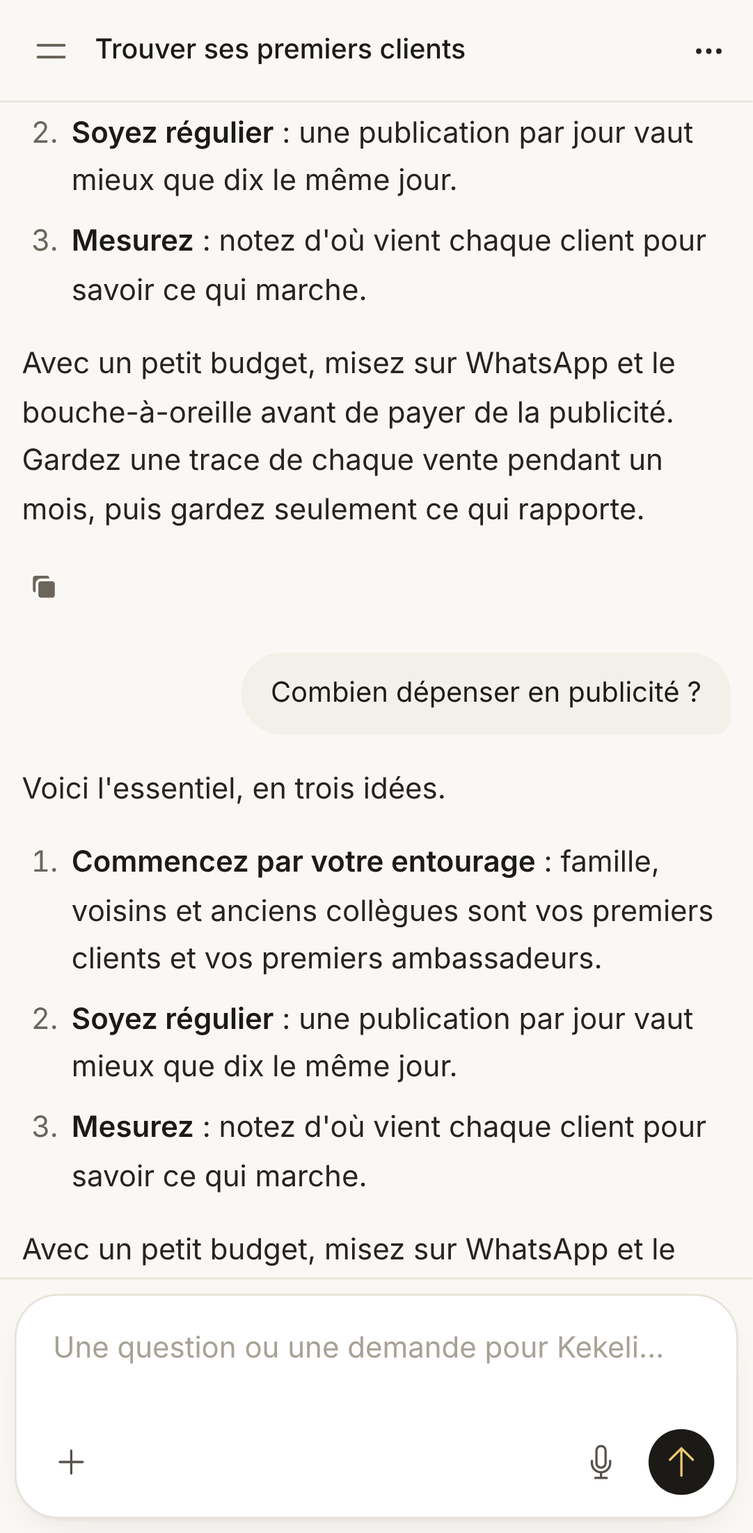
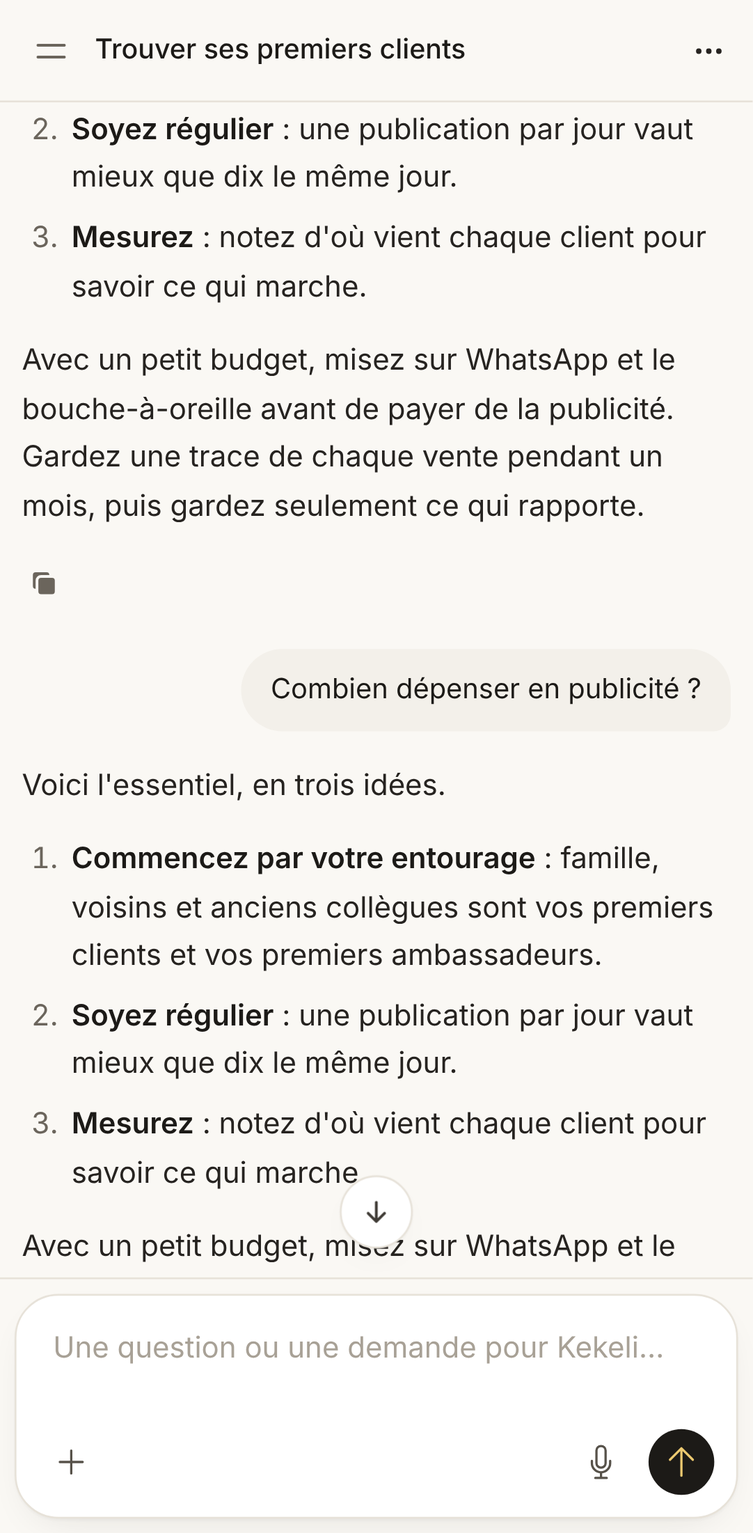
Réponses : captures finales, Lighthouse, poids et documents
- Captures après (téléphone et ordinateur, clair et sombre), dont le bouton
  « ↓ » ; page docs/captures/reponses.md complète (trois parties).
- Lighthouse et accessibilité inchangés ; JavaScript +1,2 Ko compressé.
- CLAUDE.md, plan (partie 26.34), coûts et REPRISE.md à jour.

Claude-Session: https://claude.ai/code/session_01LdDqri5ws6TQWe3Gwj4F63

diff --git a/CLAUDE.md b/CLAUDE.md
@@ -282,6 +282,12 @@ kekeli.dev, à acheter avant la mise en ligne.
 - **Compte rendu comme Claude Code** à la fin de chaque création ou modification, même arrêtée par le garde-fou : ce qui est prêt, les pages ou sections, les choix faits par défaut (« J'ai choisi »), puis **2 ou 3 boutons de suite** (dernière ligne « SUITES : … | … » de l'agent, `RunReport::nextSteps` ; « Mettre en ligne » ouvre la fenêtre) ; une relance unique si l'agent l'oublie (`TEXTE_COMPTE_RENDU`) et un compte rendu de secours avec les pages (`RunReport::pagesOf`). Étapes dépliées pendant le travail, repliées après le compte rendu ; « Voir l'aperçu » dès la première page ; aperçu ouvert tout seul sur téléphone à la fin.
 - **Démarrage anticipé** : pendant les questions avant un site vitrine, son ordinateur s'allume déjà (`POST /preparer`, mêmes modèles, pause toute seule s'il ne sert pas). Le projet porte le nom donné ou choisi (argument « nom » de « creer_site »).
 
+### Répondre comme Claude et ChatGPT (construit le 15 novembre 2026, `docs/plan.md`, partie 26.34)
+- **Police** : Inter, sans empattement, nette et moderne (décision du porteur du projet) ; aucune police payante ni propriétaire, aucun poids ajouté.
+- **Mise en page des réponses** (`.kekeli-markdown`) : 16 pixels, interligne 1,65, lignes d'environ 70 caractères sur ordinateur, paragraphes et titres espacés, tableaux qui défilent sur téléphone, code avec « Copier », gras rare ; pas de logo à côté d'une réponse finie sur téléphone.
+- **Qualité** : la réponse d'abord, longueur adaptée ; une question pratique (prix, « combien », « où », « comment faire ») reçoit la réponse, ce qui la fait varier et un conseil ; une explication, une image de la vie courante ; une comparaison, des critères concrets et un tableau ; vouvoiement toujours ; après une recherche sans le chiffre, la fourchette habituelle datée sans numéro de source. Toute modification des consignes se mesure sur le banc de 20 questions (`runner/scripts/banc-reponses.mjs`).
+- **Fluidité** : écriture régulière, blocs à leur forme finale pendant l'écriture (aucun saut), le fil suit la réponse tant que le client est en bas, sinon bouton « ↓ » ; « Arrêter » coupe l'affichage tout de suite.
+
 ### Énergie épuisée, comme Claude Code (décidé le 12 novembre 2026)
 - Kekeli travaille tant qu'il reste de l'énergie ; une fois épuisée, tout s'arrête aussitôt avec **une ligne sobre** « Énergie épuisée · Recharge à 00 h 00 » (la date pour les formules au mois) et un **lien discret** « Voir les formules ». Le travail fait est sauvegardé ; « Continuer » reprend après la recharge. **Ces lignes remplacent les longs messages de limite décrits plus haut.**
 - **Plafond OpenAI du jour atteint pendant une construction** (site, application, agent) : arrêt « Kekeli est très sollicité · Reprise à … » au lieu de passer à un modèle gratuit, qui ne sait pas finir une construction. **Les simples questions gardent le secours gratuit.**
@@ -418,6 +424,7 @@ Le plan détaillé et à jour est dans [`docs/plan.md`](docs/plan.md).
 | Formule gratuite généreuse (15 novembre 2026) | Discussions simples sans énergie (100 à 1 000 par jour selon la formule), réponses rapides pour tous (Google en dernier secours), Gratuite à 100 FCFA par jour, sites construits d'abord par GPT-6.1 Terra, « Discussions du jour » dans le menu du compte | Construit et testé (captures : `docs/captures/formule-gratuite.md` ; détails : `docs/plan.md`, partie 26.32) ; premier mot à mesurer en ligne |
 | Recherches et réponses comme Claude (15 novembre 2026) | Banc d'essai de 12 questions réelles ; plusieurs requêtes, tri par pertinence, lecture des pages, reformulation ; seules les sources citées ; réponses complètes ; une question = une recherche du jour, plafond du mois en requêtes ; fondateur et fiches de Lomé IA School et Talkami | Construit et testé (mesures et captures : `docs/captures/recherche.md` ; détails : `docs/plan.md`, partie 26.33) |
 | Créer comme Lovable et Claude (15 novembre 2026) | Jamais de création coupée (dépassement retiré ensuite, garde-fou de 150 FCFA), bonus de bienvenue de 500 FCFA, plafond gratuit à 3 000 FCFA ; questions avec choix et « Choisis pour moi » ; étapes visibles, compte rendu et boutons de suite ; qualité d'un site vitrine ; démarrage anticipé ; 5 sites réels mesurés | Construit et testé (mesures et captures : `docs/captures/creation.md` ; détails : `docs/plan.md`, partie 26.33 bis) |
+| Répondre comme Claude et ChatGPT (15 novembre 2026) | Mise en page des réponses (16 pixels, interligne 1,65, lignes d'environ 70 caractères, tableaux et code lisibles) ; réponses plus utiles mesurées sur un banc de 20 questions (7,85 → 8,30 sur 10, même coût) ; écriture régulière sans saut, fil qui suit la réponse, bouton « ↓ », « Arrêter » immédiat | Construit et testé (mesures, réponses et captures : `docs/captures/reponses.md` ; détails : `docs/plan.md`, partie 26.34) |
 | Étude des coûts de mise en ligne | Coûts réels de Laravel Cloud, du Runner, du stockage, d'E2B et d'OpenAI avant la mise en ligne | **À faire, seulement après l'accord du porteur du projet** |
 | Avant le lancement public | Relecture juridique (conditions, confidentialité) | À faire |
 | Plus tard | Envoi vers GitLab et Bitbucket (même simplicité que GitHub) ; interface en anglais ; clé Claude (fin du projet) et ouverture des pays européens ; modèles payants pour les abonnés ; achat de kekeli.dev | À faire |
@@ -468,6 +475,7 @@ Le plan détaillé et à jour est dans [`docs/plan.md`](docs/plan.md).
 - Réglages de production remplis au déploiement : `app/Billing/ProductionDefaults.php` (`apply`, constantes `PAYMENT_COUNTRIES`, `PAYMENT_WHATSAPP`, `EMAIL_DAILY_CAP`, `OPENAI_DAILY_CAP_USD`, `CONTACT_PHONES`, `RECEIPT_ISSUER`), migration `2026_11_23_000001_fill_production_settings`. Tests : `tests/Feature/ProductionDefaultsTest.php`.
 - Formule gratuite généreuse : colonne `agent_runs.simple_chat` (marquée par `RespondToMessage`, `chatsUsedUp`, `report.chat_limit`), `Energy::simpleChatsToday`, `simpleChatsLeft`, `simpleChatsResetText`, `DEFAULT_SIMPLE_CHATS`, réglage `simple_chats_per_day` de chaque formule, `ModelRouter::answerRoute`, `PlanCards::freeEnergyLine` et `chatsLine`, migrations `2026_11_25_000001` à `000003`. Tests : `tests/Feature/FreeFormulaTest.php`. Captures : `scripts/preparer-captures-formule-gratuite.php` puis `scripts/captures-formule-gratuite.js`.
 - Vitesse : `app/Agent/Timings.php` (colonne `agent_runs.timings`, section `data-speeds` de `admin/consumption`), `app/Http/Controllers/AnswerStreamController.php` (routes `projects.answers.stream` et `projects.answers.chronos`), `RespondToMessage::STREAM_FALLBACK_SECONDS`, `onEvent` et verrou `kekeli:reponse:…`, `RunnerClient::respond($run, $place, $onEvent)`, `resources/js/reponse.js` (`kekeliDiscussion`, magasin Alpine `saisie`) et `reponse-texte.js`, Runner `runner/src/flux.js` (`lireFlux`, `suiviTexte`) et option `surTexte` du premier répondant ; dictée `resources/js/dictee-texte.js` ; confirmation `runner/src/confirmation.js`, `RespondToMessage::proposal` et `CONFIRMED_TOOLS`, action `acceptOffer` de `projects/show`. Tests : `tests/Feature/SpeedTimingsTest.php`, `AnswerStreamTest.php`, `VagueRequestsTest.php`, `runner/tests/flux.test.js`, `confirmation.test.js`, `dictee.test.js`. Mesures : `scripts/mesurer-vitesse.js`, `scripts/lighthouse-vitesse.js`, `runner/scripts/mesurer-premier-mot.mjs` ; essais et captures : `scripts/essai-dictee.js`, `scripts/captures-vitesse.js`.
+- Réponses comme Claude : styles `.kekeli-markdown` et `.kekeli-tableau` dans `resources/css/app.css` ; consignes `REPONDRE` (`runner/src/competences.js`) et `CONSIGNES_RECHERCHE` (`runner/src/repondant.js`) ; affichage `miseEnFormeProgressive`, `pasAffichage`, `finPremierMot` (`resources/js/reponse-texte.js`), `avancer`, `uneImage`, `affichageTermine`, `attendreFin` et `kekeliFil` (`resources/js/reponse.js`), bouton `data-fil-bas` de `projects/show`. Banc : `runner/mesures/questions-reponses.json`, `runner/scripts/banc-reponses.mjs` (variable `MODELE` pour un autre modèle), notes `runner/mesures/notes-reponses.json`, page `runner/scripts/page-reponses.mjs`. Tests : `runner/tests/reponse-texte.test.js`, `runner/tests/qualite-reponses.test.js`. Essais et captures : `scripts/essai-fluidite.js`, `scripts/preparer-captures-reponses.php`, `scripts/captures-reponses.js`.
 - Production : `app/Support/ProductionCheck.php` et commande `kekeli:verifier-production`, commande `kekeli:nouveau-secret`, proxy de confiance dans `bootstrap/app.php`, `retry_after` de 660 secondes (`config/queue.php`), cookie de session sécurisé en production, disque des fichiers `KEKELI_DISQUE_SAUVEGARDES` puis `FILESYSTEM_DISK`, envois temporaires de Livewire sur le disque local, `AWS_ENDPOINT` ou `AWS_ENDPOINT_URL`, `ErasePausedComputer` unique par projet, Runner `hoteEcoute` (`runner/src/server.js`). Tests : `tests/Feature/ProductionReadinessTest.php`, `runner/tests/production.test.js`.
 - Administration : pages `/administration/fournisseurs`, `/administration/modeles`, `/administration/projets`, `/administration/consommation`, `/administration/paiements` et `/administration/reglages`, réservées aux comptes administrateurs (`php artisan kekeli:admin adresse`) ; l'administrateur peut consulter un projet en lecture seule.
 - Un utilisateur ne voit et ne modifie que ses propres projets : toujours passer par `Auth::user()->projects()` ou vérifier le propriétaire (réponse 404 sinon).

diff --git a/docs/captures/reponses.md b/docs/captures/reponses.md
@@ -23,14 +23,14 @@ Ce que font Claude et ChatGPT (pages publiques et application, observées le 15 
 
 | Mesure | Avant | Après |
 |---|---|---|
-| CSS | 352,26 Ko (41,47 Ko compressé) | 352,71 Ko (41,57 Ko compressé) |
-| JavaScript | 11,79 Ko (4,30 Ko compressé) | inchangé |
+| CSS | 352,26 Ko (41,47 Ko compressé) | 352,85 Ko (41,60 Ko compressé), avec les parties 1 et 3 |
+| JavaScript | 11,79 Ko (4,30 Ko compressé) | 15,15 Ko (5,52 Ko compressé) : affichage régulier, tableaux et code pendant l'écriture, fil et bouton « ↓ » (partie 3) |
 | Polices | 9 fichiers | inchangé |
-| Lighthouse, accueil | 59 · 59 | 59 · 59 |
-| Lighthouse, discussion avec une longue réponse | 71 · 55 | 69 · 57 |
+| Lighthouse, accueil (4 essais) | 59 · 59 · 59 · 59 | 59 · 59 · 59 · 59 |
+| Lighthouse, discussion avec une longue réponse (4 essais) | 71 · 55 · 57 · 71 | 69 · 57 · 58 · 58 |
 | Accessibilité | 100 | 100 |
 
-Les écarts de la discussion (55 à 71) sont ceux de la mesure elle-même, des deux côtés.
+Les écarts de la discussion (55 à 71) sont ceux de la mesure elle-même, des deux côtés (site local de développement, téléphone lent simulé par Lighthouse).
 
 ### Captures avant et après
 
@@ -39,6 +39,7 @@ Les écarts de la discussion (55 à 71) sont ceux de la mesure elle-même, des d
 | Réponse courte | ![](reponses/avant/1-courte-telephone-clair.png) | ![](reponses/apres/1-courte-telephone-clair.png) | ![](reponses/apres/1-courte-telephone-sombre.png) | ![](reponses/apres/1-courte-ordinateur-clair.png) | ![](reponses/apres/1-courte-ordinateur-sombre.png) |
 | Réponse longue (titres, tableau, liste) | ![](reponses/avant/2-longue-telephone-clair.png) | ![](reponses/apres/2-longue-telephone-clair.png) | ![](reponses/apres/2-longue-telephone-sombre.png) | ![](reponses/apres/2-longue-ordinateur-clair.png) | ![](reponses/apres/2-longue-ordinateur-sombre.png) |
 | Bloc de code avec « Copier » | ![](reponses/avant/3-code-telephone-clair.png) | ![](reponses/apres/3-code-telephone-clair.png) | ![](reponses/apres/3-code-telephone-sombre.png) | ![](reponses/apres/3-code-ordinateur-clair.png) | ![](reponses/apres/3-code-ordinateur-sombre.png) |
+| Fil remonté : bouton « ↓ » (partie 3) | ![](reponses/avant/4-remonter-telephone-clair.png) (aucun bouton) | ![](reponses/apres/4-remonter-telephone-clair.png) | ![](reponses/apres/4-remonter-telephone-sombre.png) | ![](reponses/apres/4-remonter-ordinateur-clair.png) | ![](reponses/apres/4-remonter-ordinateur-sombre.png) |
 
 Toutes les captures avant, en clair et en sombre, sont dans `docs/captures/reponses/avant/`.
 
@@ -881,3 +882,25 @@ Méthode : 20 vraies questions variées (`runner/mesures/questions-reponses.json
 </details>
 
 <!-- banc : fin -->
+
+## Partie 3 : fluidité
+
+Comme Claude et ChatGPT :
+
+- **Écriture régulière** : le texte reçu s'affiche à chaque image (environ 60 par seconde), le premier mot d'un coup, puis un huitième du texte en attente à chaque image (un gros morceau de 600 caractères est rattrapé en moins d'une seconde), au lieu d'arriver par paquets.
+- **Aucun saut** : pendant l'écriture, chaque bloc a déjà sa forme finale (titres au bon niveau, tableaux dans leur cadre, code avec sa barre et « Copier », renvois en pastilles, gras pas encore fermé déjà en gras). Mesure sur une même longue réponse (titres, tableau, liste, code, renvoi) : quand la version du site remplace le texte en train de s'écrire, la réponse sautait de **65 pixels sur téléphone et 75 sur ordinateur avant, 0 après**.
+- **Le fil suit la réponse** tant que le client est en bas ; dès qu'il remonte, il n'est plus jamais ramené en bas, et un petit bouton « ↓ » (« Aller à la fin ») le ramène à la fin. Un message envoyé ramène toujours à la fin.
+- **« Arrêter » coupe l'affichage tout de suite** : le texte pas encore montré ne s'affiche plus.
+- **Correction trouvée pendant l'essai** : si le flux de la réponse s'arrêtait avant la fin (réseau coupé, téléphone en arrière-plan), la page restait figée jusqu'à son rechargement ; elle regarde maintenant toutes les 2 secondes jusqu'à ce que la réponse soit là (3 minutes au plus), sans interrogation permanente (Laravel Cloud peut toujours s'endormir).
+
+**Essai dans un téléphone simulé** (`scripts/essai-fluidite.js`, flux remplacé par une longue réponse inventée envoyée d'un seul bloc) : écriture progressive (0, 795, 1 222, 1 441… 1 675 caractères toutes les 80 millisecondes) ; fil qui suit la réponse ; après une remontée, pas ramené en bas, bouton « ↓ » visible, puis retour à la fin au toucher ; « Arrêter » : plus aucun caractère après le toucher. Tests : `runner/tests/reponse-texte.test.js`.
+
+**Temps jusqu'au premier mot** (3 questions, 3 essais chacune, en secondes depuis le toucher sur « Envoyer », site local et vrai modèle ; détails `reponses/premier-mot-avant.json` et `reponses/premier-mot-apres.json`) :
+
+| Question | Avant : sur le téléphone (dont le modèle) | Après : sur le téléphone (dont le modèle) |
+|---|---|---|
+| « Salut » | 5,3 (4,8) · 8,4 (7,9) · 5,9 (5,5) | 3,2 (2,7) · 4,8 (4,4) · 7,6 (7,1) |
+| Question courte | 7,1 (6,4) · 3,2 (1,9) · 20,9 (20,6) | 7,2 (6,8) · 9,1 (8,4) · 14,4 (14,0) |
+| Tableau des prix des tresses (avec recherche) | 17,9 · 11,1 · 17,6 | 27,9 · 24,3 · 21,4 |
+
+Ce que la partie 3 peut changer, le délai entre l'arrivée du premier mot sur le site et son affichage sur le téléphone, **reste de 0,1 seconde avant et après : aucune régression**. Le reste est le temps du modèle chez Coarena (de 1,9 à 20,6 secondes pour la même question ce jour-là) et, pour la troisième question, celui de la recherche sur Internet. Pour vérifier que les consignes de la partie 2 ne ralentissent pas, la troisième question a été posée directement au Runner en alternant anciennes et nouvelles consignes, 3 fois chacune : premier mot à 38,3, 14,1 et 17,8 secondes avec les anciennes, **29,0, 12,7 et 11,4 secondes avec les nouvelles**, avec des réponses plus complètes (209 à 268 mots contre 130 à 160).

diff --git a/REPRISE.md b/REPRISE.md
@@ -382,4 +382,4 @@ Détails : `docs/plan.md`, partie 29.6.
 
 - Branche `claude/eager-cerf-b674ih`, repartie de `main` (après la pull request 68). Trois parties (mise en page, qualité, fluidité), poussées après chacune ; finitions dans un premier commit séparé.
 - Clés vérifiées sans afficher leur valeur : Coarena (11 comptes), OpenAI, Gemini et Tavily présentes.
-- **Dernière partie finie : 3** (fluidité). Partie 3 : affichage régulier à chaque image (`pasAffichage`, `finPremierMot` dans `resources/js/reponse-texte.js`, premier mot d’un coup), blocs déjà à leur forme finale pendant l’écriture (titres au bon niveau, tableaux, code avec sa barre, renvois, gras pas encore fermé) : saut à la fin mesuré de 65 et 75 pixels à 0 ; fil qui suit la réponse et bouton « ↓ » (`kekeliFil` dans `resources/js/reponse.js`, `data-fil-bas`) ; « Arrêter » coupe l’affichage tout de suite ; correction : un flux coupé avant la fin ne laisse plus la page figée (`attendreFin`, 2 secondes, 3 minutes au plus). Essai `scripts/essai-fluidite.js` (tout bon), tests `runner/tests/reponse-texte.test.js`. Premier mot : délai d’affichage sur le téléphone 0,1 seconde avant et après ; temps totaux dominés par le modèle et la recherche (`docs/captures/reponses/premier-mot-avant.json` et `premier-mot-apres.json`), anciennes et nouvelles consignes comparées en alternance (pas plus lentes). Partie 2 (qualité). Partie 2 : banc de 20 vraies questions (`runner/mesures/questions-reponses.json`, `runner/scripts/banc-reponses.mjs`, résultats `banc-reponses-avant.json` et `banc-reponses-apres.json`, notes `notes-reponses.json`, page générée par `runner/scripts/page-reponses.mjs`) : notes 7,85 → 8,30 sur 10 ; consignes : question pratique, explication, comparaison, vouvoiement (`REPONDRE` de `runner/src/competences.js`), prix sans chiffre après une recherche (`CONSIGNES_RECHERCHE`) ; coût moyen environ 1,85 → 1,80 FCFA au prix payant ; Gemini 3.8 Flash mesuré (plus riche mais 3 fois plus cher et plus lent), GPT-6.1 Terra gardé. Partie 1 (mise en page). Texte des réponses à 16 pixels, interligne 1,65, lignes d’environ 70 caractères sur ordinateur (`36em`), titres et paragraphes plus espacés, tableaux plus lisibles, logo masqué à côté d’une réponse finie sur téléphone ; police Inter gardée (libre, déjà servie). CSS +0,4 Ko (+0,1 Ko compressé), JavaScript et polices inchangés ; Lighthouse téléphone : accueil 59 et 59, discussion 71 et 55 avant, 69 et 57 après, accessibilité 100. Captures `docs/captures/reponses/avant` et `apres` (`scripts/preparer-captures-reponses.php`, `scripts/captures-reponses.js`). Environnement local : base `/home/user/kekeli-reponses.sqlite` (compte inventé `afi-reponses@exemple.tg`), site sur le port 8131, copie de la version d’avant sur le port 8132.
+- **Dernière partie finie : 3 (toutes ; captures, Lighthouse, poids et documents faits).** Lighthouse téléphone (4 essais) : accueil 59 partout, discussion 71, 55, 57, 71 avant et 69, 57, 58, 58 après, accessibilité 100 ; JavaScript 15,15 Ko (5,52 Ko compressé, contre 4,30), CSS 41,60 Ko compressé (contre 41,47) ; documents à jour (CLAUDE.md, plan partie 26.34, coûts, `docs/captures/reponses.md`). Suivant : pull request, fusion quand GitHub est vert, puis arrêt. Partie 3 : affichage régulier à chaque image (`pasAffichage`, `finPremierMot` dans `resources/js/reponse-texte.js`, premier mot d’un coup), blocs déjà à leur forme finale pendant l’écriture (titres au bon niveau, tableaux, code avec sa barre, renvois, gras pas encore fermé) : saut à la fin mesuré de 65 et 75 pixels à 0 ; fil qui suit la réponse et bouton « ↓ » (`kekeliFil` dans `resources/js/reponse.js`, `data-fil-bas`) ; « Arrêter » coupe l’affichage tout de suite ; correction : un flux coupé avant la fin ne laisse plus la page figée (`attendreFin`, 2 secondes, 3 minutes au plus). Essai `scripts/essai-fluidite.js` (tout bon), tests `runner/tests/reponse-texte.test.js`. Premier mot : délai d’affichage sur le téléphone 0,1 seconde avant et après ; temps totaux dominés par le modèle et la recherche (`docs/captures/reponses/premier-mot-avant.json` et `premier-mot-apres.json`), anciennes et nouvelles consignes comparées en alternance (pas plus lentes). Partie 2 (qualité). Partie 2 : banc de 20 vraies questions (`runner/mesures/questions-reponses.json`, `runner/scripts/banc-reponses.mjs`, résultats `banc-reponses-avant.json` et `banc-reponses-apres.json`, notes `notes-reponses.json`, page générée par `runner/scripts/page-reponses.mjs`) : notes 7,85 → 8,30 sur 10 ; consignes : question pratique, explication, comparaison, vouvoiement (`REPONDRE` de `runner/src/competences.js`), prix sans chiffre après une recherche (`CONSIGNES_RECHERCHE`) ; coût moyen environ 1,85 → 1,80 FCFA au prix payant ; Gemini 3.8 Flash mesuré (plus riche mais 3 fois plus cher et plus lent), GPT-6.1 Terra gardé. Partie 1 (mise en page). Texte des réponses à 16 pixels, interligne 1,65, lignes d’environ 70 caractères sur ordinateur (`36em`), titres et paragraphes plus espacés, tableaux plus lisibles, logo masqué à côté d’une réponse finie sur téléphone ; police Inter gardée (libre, déjà servie). CSS +0,4 Ko (+0,1 Ko compressé), JavaScript et polices inchangés ; Lighthouse téléphone : accueil 59 et 59, discussion 71 et 55 avant, 69 et 57 après, accessibilité 100. Captures `docs/captures/reponses/avant` et `apres` (`scripts/preparer-captures-reponses.php`, `scripts/captures-reponses.js`). Environnement local : base `/home/user/kekeli-reponses.sqlite` (compte inventé `afi-reponses@exemple.tg`), site sur le port 8131, copie de la version d’avant sur le port 8132.

diff --git a/docs/plan.md b/docs/plan.md
@@ -2212,3 +2212,13 @@ Tests : `runner/tests/repondant.test.js` (requêtes, pertinence, homonymes, refo
 **6. Vitesse** : démarrage anticipé de l'ordinateur pendant les questions avant un site vitrine (`POST /preparer`, mêmes modèles que le travail, `RunnerClient::prepare`) : première page 14 s après le début du travail pour le salon de coiffure (38 s avant). Consigne « première page courte d'abord » mesurée puis annulée (34 s contre 30 s, fin plus tardive). Les sites étant plus complets, la création totale est plus longue (230 à 339 s contre 175 s). À vérifier en ligne : la création d'images échouait dans l'ordinateur de l'environnement de travail (le service répond hors de l'ordinateur).
 
 Mesures et captures : `docs/captures/creation.md`. Tests : `tests/Feature/EnergyStopTest.php`, `WelcomeBonusTest.php`, `CreationQuestionsTest.php`, `ClearMessagesTest.php`, `tests/Unit/SiteNamesTest.php`, `runner/tests/couts.test.js`, `narration.test.js`, `repondant.test.js`, `confirmation.test.js`, `application-runner.test.js`.
+
+### 26.34 Répondre comme Claude et ChatGPT (15 novembre 2026)
+
+Constat du porteur du projet : lire une réponse de Kekeli n'était pas aussi agréable que lire Claude, ChatGPT ou Lovable, et certaines réponses étaient trop courtes (le prix d'une tresse en une phrase). Décision du porteur du projet : police sans empattement, nette et moderne (aucune police payante). Mesures, réponses complètes et captures : `docs/captures/reponses.md`.
+
+1. **Mise en page** (`resources/css/app.css`, `.kekeli-markdown`) : texte des réponses à 16 pixels, interligne 1,65, lignes d'environ 70 caractères sur ordinateur (`36em`, tableaux et code sur toute la colonne), paragraphes et titres mieux espacés, listes mieux alignées, tableaux plus lisibles (chiffres tabulaires) ; sur téléphone, plus de logo à côté d'une réponse finie (la flamme reste pendant le travail). Police Inter gardée (libre, déjà servie) ; aucune police ni aucun poids ajouté.
+2. **Qualité** : banc de 20 vraies questions (`runner/mesures/questions-reponses.json`, `runner/scripts/banc-reponses.mjs`), réponses notées de 1 à 10 en les comparant à Claude : **7,85 avant, 8,30 après**. Consignes changées (`REPONDRE` dans `runner/src/competences.js`, `CONSIGNES_RECHERCHE`) : une question pratique (prix, « combien », « où », « comment faire ») reçoit la réponse, ce qui la fait varier et un conseil ; une explication, une image de la vie courante et un exemple ; une comparaison, des critères concrets et un tableau ; vouvoiement toujours ; après une recherche sans le chiffre, la fourchette habituelle datée, sans numéro de source. Coût moyen inchangé (environ 1,8 FCFA par réponse au prix payant, estimation). Gemini 3.8 Flash mesuré sur le même banc : plus riche, mais environ 3 fois plus cher et plus lent ; **GPT-6.1 Terra gardé**.
+3. **Fluidité** (`resources/js/reponse.js`, `resources/js/reponse-texte.js`) : écriture régulière à chaque image (premier mot d'un coup) ; blocs déjà à leur forme finale pendant l'écriture (saut de fin mesuré de 65 et 75 pixels à 0) ; fil qui suit la réponse et bouton « ↓ » quand le client remonte (`kekeliFil`) ; « Arrêter » coupe l'affichage tout de suite ; correction d'une page figée quand le flux s'arrêtait avant la fin (`attendreFin`). Délai d'affichage du premier mot sur le téléphone : 0,1 seconde avant et après.
+
+Plafond OpenAI inchangé ; aucun service payant ajouté ; Lighthouse et accessibilité inchangés (100).

diff --git a/docs/couts.md b/docs/couts.md
@@ -452,3 +452,15 @@ Mesure réelle (banc d'essai de 12 questions, `docs/captures/recherche.md`) : un
 - Ce qui est **vraiment payé** dans ce montant : l'ordinateur E2B (environ 15 % d'un site, soit environ 500 à 700 FCFA par jour au pire, environ 0,9 à 1,2 $), le reste étant des modèles offerts (Coarena, offres gratuites) ; si tout passait par OpenAI, son plafond de **1 $ par jour** (inchangé) s'applique.
 - **Total réellement payé au pire** pour la formule gratuite et OpenAI : environ **2,2 $ par jour, soit environ 66 $ (39 000 FCFA) par mois** (estimation), plus les ordinateurs allumés à l'avance et jamais utilisés (environ 0,014 $ chacun). Si l'ordinateur pesait plus que mesuré, le maximum théorique (tout en ordinateur) serait d'environ 5,3 $ par jour pour les gratuits, plus 1 $ pour OpenAI.
 - Bonus des comptes déjà créés : donné une seule fois, il n'augmente pas le plafond du jour (il y est compté).
+
+## Répondre comme Claude et ChatGPT : coût d'une réponse (15 novembre 2026)
+
+Mesure réelle sur 20 vraies questions (`runner/scripts/banc-reponses.mjs`, détails dans `docs/captures/reponses.md`), avec le modèle des réponses de la production, GPT-6.1 Terra (Coarena, puis OpenAI en secours). Coût **estimé au prix payant d'OpenAI** (1 $ et 5 $ par million de tokens, 600 FCFA pour 1 $) ; tant que les crédits gratuits du jour de Coarena suffisent, la dépense réelle est nulle.
+
+| | Avant | Après |
+|---|---|---|
+| Coût moyen d'une réponse (sans le tout premier message) | environ 1,85 FCFA | environ 1,80 FCFA |
+| Tout premier message (consigne pas encore en cache) | environ 5,7 FCFA | environ 5,9 FCFA (même cas) |
+| Longueur moyenne | 153 mots | 170 mots |
+
+Gemini 3.8 Flash, mesuré sur les mêmes questions : environ 6 FCFA par réponse à son prix officiel (0,75 $ et 3,75 $ par million de tokens ; ses consignes ne sont pas gardées en cache chez Coarena), réponses de 291 mots en moyenne : non retenu. Le plafond de dépense OpenAI du jour (1 $) ne change pas.
